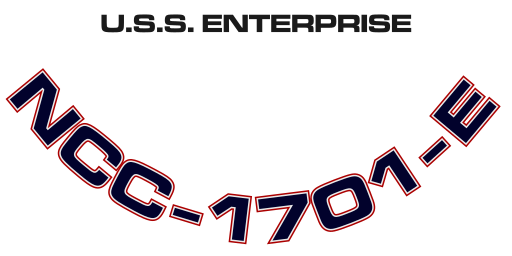
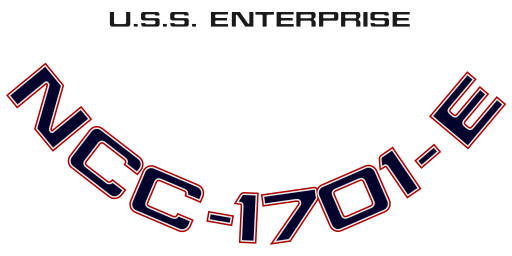
feat(ships): USS Ark Royal joins the Sovereign class; Sovereign masks refreshed
Mark's masks for a third Sovereign-class ship, USS Ark Royal (main,
bottom, nacelle), plus his updated main and bottom masks for the
Sovereign and Enterprise and their templates; the unused pylon template
is gone.

The Ark Royal is registry-only, so it spawns the stock Sovereign script
and shares its specs (the Enterprise keeps its own script). BC ships no
Ark Royal registry texture; the name comes from the masks alone.

Changed region(s): [[0.0, 0.25, 1.0, 0.9688], [0.1875, 0.0312, 0.8125, 0.125]]

diff --git a/tests/unit/test_ship_catalog_stock.py b/tests/unit/test_ship_catalog_stock.py
@@ -29,7 +29,7 @@ APPENDIX = [
                                                                   "USS Galaxy", "USS Challenger", "USS Magellan", "USS Syracuse", "USS Trinculo"]),
     ("Nebula", "Nebula", "Federation", T, True, "DS9", "Nebula", ["USS Berkeley", "USS Prometheus", "USS Khitomer", "USS Nightingale",
                                                                   "USS Nebula", "USS Endeavour", "USS Leeds", "USS Monitor", "USS Sutherland", "USS T'Kumbra"]),
-    ("Sovereign", "Sovereign", "Federation", T, True, "DS9", "Sovereign", ["USS Sovereign", "USS Enterprise"]),
+    ("Sovereign", "Sovereign", "Federation", T, True, "DS9", "Sovereign", ["USS Sovereign", "USS Enterprise", "USS Ark Royal"]),
     ("Shuttle", "Shuttle", "Federation", A, True, "DS9", "FedShuttle", []),
     ("EscapePod", "Escape Pod", "Federation", A, False, "DS9", "LifeBoat", []),
     ("FedStarbase", "Fed Starbase", "Federation", S, False, "DS9", "FedStarbase", []),
@@ -88,7 +88,7 @@ def test_fed_variant_registries_and_the_enterprise_script():
     by_id = {d.shipFile: parse_dauntless(d.dauntless).variants
              for d in shipdef_overrides.stock_definitions()}
     assert [(v.registry, v.script) for v in by_id["Sovereign"]] == [
-        ("Sovereign", None), ("Enterprise", "Enterprise")]
+        ("Sovereign", None), ("Enterprise", "Enterprise"), ("ArkRoyal", None)]
     assert [v.registry for v in by_id["Galaxy"]] == [
         "Dauntless", "SanFrancisco", "Venture",
         "Galaxy", "Challenger", "Magellan", "Syracuse", "Trinculo"]

diff --git a/engine/foundation/shipdef_overrides.py b/engine/foundation/shipdef_overrides.py
@@ -105,6 +105,8 @@ Sovereign.dauntless = {
         {'name': 'USS Sovereign', 'registry': 'Sovereign'},
         # A separate SDK script with its own hardpoints (spec D5).
         {'name': 'USS Enterprise', 'script': 'Enterprise', 'registry': 'Enterprise'},
+        # No stock registry texture: the name comes from Masks/<registry>/.
+        {'name': 'USS Ark Royal', 'registry': 'ArkRoyal'},
     ],
 }
 
